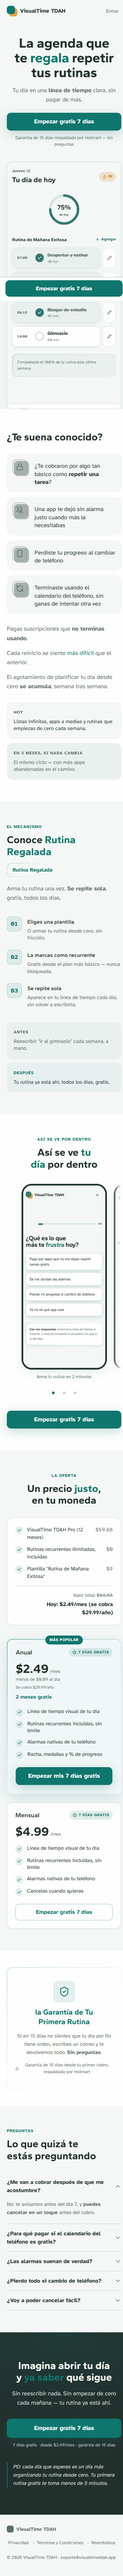
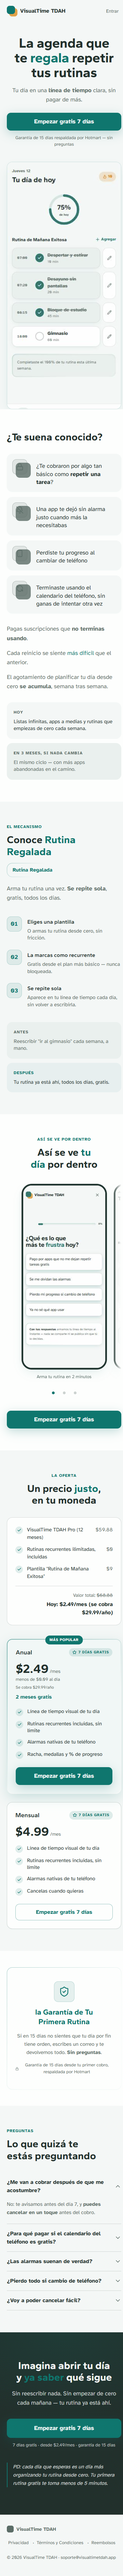
fix: craft visual (ronda 3) tras veredicto del revisor
- Reemplaza el fondo radial-gradient+color-mix (se diluía a casi nada sobre un
  fondo claro) por manchas sólidas con filter:blur, en onboarding y paywall.
- Corrige el CTA de la card Anual de la landing para usar el mismo texto que
  el resto de la página (quedó pendiente de la ronda anterior).
- Paywall: rótulo "Con tu prueba gratis de 7 días" sobre el value stack (evita
  confundir qué es gratis vs. premium), línea que nombra el miedo real del
  avatar ("te cobraron antes de tiempo"), precio más chico para no competir
  con el titular.

Changed region(s): [[0.0306, 0.0934, 1.0, 0.1245], [0.275, 0.1868, 0.7333, 0.2491], [0.1222, 0.1557, 0.2444, 0.2491]]

diff --git a/app/paywall/page.tsx b/app/paywall/page.tsx
@@ -63,16 +63,19 @@ export default function Paywall() {
 
   return (
     <main className="relative flex min-h-dvh flex-col overflow-hidden bg-[var(--bg)] [font-family:var(--font-body)]">
-      {/* Fondo con profundidad (mesh del acento, dispositivo ownable) — nunca fill
-          plano, 55 gate G. Intensidad subida tras veredicto: al 7% no se notaba. */}
-      <div
-        aria-hidden="true"
-        className="pointer-events-none absolute inset-0 -z-10"
-        style={{
-          background:
-            'radial-gradient(820px 480px at 8% -10%, color-mix(in oklab, var(--accent) 16%, transparent) 0%, transparent 62%), radial-gradient(680px 440px at 102% 12%, color-mix(in oklab, var(--accent-2) 12%, transparent) 0%, transparent 58%)',
-        }}
-      />
+      {/* Fondo con profundidad — el radial-gradient con color-mix se diluía casi a
+          cero sobre un fondo tan claro (--bg); reemplazado por manchas sólidas con
+          filter:blur, que sí se perciben a 375px (misma causa raíz que onboarding). */}
+      <div aria-hidden="true" className="pointer-events-none absolute inset-0 -z-10 overflow-hidden">
+        <div
+          className="absolute -left-16 -top-20 size-[320px] rounded-full bg-[var(--accent)] opacity-40"
+          style={{ filter: 'blur(40px)' }}
+        />
+        <div
+          className="absolute -right-20 top-32 size-[260px] rounded-full bg-[var(--accent-2)] opacity-30"
+          style={{ filter: 'blur(40px)' }}
+        />
+      </div>
       <div className="relative mx-auto w-full max-w-[520px] flex-1 px-4 pb-10 pt-5">
         <div className="flex items-center justify-between">
           <a href="/" className="flex items-center gap-2 text-[16px] font-semibold text-[var(--text-primary)]">
@@ -101,6 +104,14 @@ export default function Paywall() {
           <p className="mt-2 text-[14px] text-[var(--text-secondary)]">
             Hecho con tus {nRespuestas} respuestas
           </p>
+          {/* Ancla emocional real (FICHA-AVATAR.md, dolor #3 citado): "me cobraron
+              antes de los 7 días" es el miedo exacto que este paywall debe disolver
+              — la pantalla era puramente transaccional sin nombrar el dolor. */}
+          <p className="mt-3 text-[14px] leading-snug text-[var(--text-secondary)]">
+            Sabemos que otras apps te cobraron antes de que terminara la prueba.{' '}
+            <span className="font-semibold text-[var(--text-primary)]">Aquí no</span> — te avisamos
+            antes del día 7, siempre.
+          </p>
         </motion.div>
 
         {/* Visual del valor: value stack — checks con las respuestas reales.
@@ -115,7 +126,13 @@ export default function Paywall() {
           className="mt-6"
         >
           <Hairline className="p-4 shadow-[0_8px_26px_-8px_rgb(15_118_110_/_0.32)]">
-            <div className="flex flex-col gap-3">
+            {/* Rótulo que distingue qué desbloquea la prueba — el titular dice
+                "gratis" y, sin esto, los checks de abajo podían leerse como si
+                también fueran gratis para siempre (confunde free vs. premium). */}
+            <p className="text-[11px] font-semibold uppercase tracking-[0.06em] text-[var(--accent)]">
+              Con tu prueba gratis de 7 días
+            </p>
+            <div className="mt-3 flex flex-col gap-3">
               {[
                 'Línea de tiempo visual de tu día',
                 'Rutinas recurrentes incluidas, sin límite',
@@ -188,7 +205,7 @@ export default function Paywall() {
             </span>
             <div className="flex items-center justify-between">
               <span className="text-[16px] font-semibold text-[var(--text-primary)]">Anual</span>
-              <span className="text-[22px] font-bold tabular-nums text-[var(--text-primary)] [font-family:var(--font-display)]">
+              <span className="text-[19px] font-bold tabular-nums text-[var(--text-primary)] [font-family:var(--font-display)]">
                 <PrecioAnimado valor={2.49} reducedMotion={Boolean(reducedMotion)} />
                 <span className="text-[13px] font-medium text-[var(--text-secondary)]">/mes</span>
               </span>
@@ -207,7 +224,7 @@ export default function Paywall() {
           >
             <div className="flex items-center justify-between">
               <span className="text-[16px] font-semibold text-[var(--text-primary)]">Mensual</span>
-              <span className="text-[22px] font-bold tabular-nums text-[var(--text-primary)] [font-family:var(--font-display)]">
+              <span className="text-[19px] font-bold tabular-nums text-[var(--text-primary)] [font-family:var(--font-display)]">
                 <PrecioAnimado valor={4.99} reducedMotion={Boolean(reducedMotion)} />
                 <span className="text-[13px] font-medium text-[var(--text-secondary)]">/mes</span>
               </span>

diff --git a/app/onboarding/page.tsx b/app/onboarding/page.tsx
@@ -346,17 +346,21 @@ export default function Onboarding() {
 
   return (
     <main className="relative flex min-h-dvh flex-col overflow-hidden bg-[var(--bg)] [font-family:var(--font-body)]">
-      {/* Fondo con profundidad (mesh del acento) — 3ª ronda tras veredicto: el centro
-          a "92% -8%" quedaba FUERA del viewport por arriba y se recortaba casi
-          entero; ahora el centro está DENTRO del área visible (85%/6%). */}
-      <div
-        aria-hidden="true"
-        className="pointer-events-none absolute inset-0 -z-10"
-        style={{
-          background:
-            'radial-gradient(560px 420px at 85% 6%, color-mix(in oklab, var(--accent) 32%, transparent) 0%, transparent 68%), radial-gradient(480px 380px at 2% 38%, color-mix(in oklab, var(--accent-2) 22%, transparent) 0%, transparent 62%)',
-        }}
-      />
+      {/* Fondo con profundidad — 4ª ronda: el radial-gradient con color-mix se diluye
+          casi a cero sobre un fondo tan claro (--bg) sin importar el % de alpha,
+          porque la interpolación hacia "transparent" apaga el color mucho antes del
+          borde. Técnica reemplazada: manchas SÓLIDAS con filter:blur — el color no
+          se diluye por interpolación, así que SÍ se percibe a 375px. */}
+      <div aria-hidden="true" className="pointer-events-none absolute inset-0 -z-10 overflow-hidden">
+        <div
+          className="absolute -right-16 -top-24 size-[340px] rounded-full bg-[var(--accent)] opacity-40"
+          style={{ filter: 'blur(40px)' }}
+        />
+        <div
+          className="absolute -left-20 top-48 size-[280px] rounded-full bg-[var(--accent-2)] opacity-30"
+          style={{ filter: 'blur(40px)' }}
+        />
+      </div>
       <header className="mx-auto flex w-full max-w-[520px] items-center justify-between px-4 pt-5">
         <a href="/" className="flex items-center gap-2 text-[16px] font-semibold text-[var(--text-primary)]">
           <LogoMark size={24} />

diff --git a/app/page.tsx b/app/page.tsx
@@ -116,7 +116,7 @@ export default function LandingVisualTimeTDAH() {
           totalAnual: 'Se cobra $29.99/año',
           ahorro: '2 meses gratis',
           descomposicionDia: 'menos de $0.09 al día',
-          ctaLabel: 'Empezar mis 7 días gratis',
+          ctaLabel: CTA_LABEL,
           ctaHref: CTA_HREF,
           features: [
             'Línea de tiempo visual de tu día',

diff --git a/docs/revisiones/landing-veredicto.md b/docs/revisiones/landing-veredicto.md
@@ -1,17 +1,17 @@
 # VEREDICTO revisor-visual — landing
 Fecha: 2026-11-12 00:00
 Screenshot: docs/revisiones/landing-375.png
-Usabilidad: 29/40
-Craft: 14/20
-Copy (si vende): 16/20
+Usabilidad: 28/40
+Craft: 15/20
+Copy (si vende): 15/20
 Fidelidad (si hubo referencia): N-A
 Veredicto: NO LISTA
 
 Top defectos:
-1. [Logo header + IconChip en todas las secciones] El "eco de marca" (silueta --accent-2 offset detrás del ícono/logo) es demasiado sutil en el tamaño de landing (44px, offset 12%, opacidad 45%): en el screenshot a 375px se lee como una sombra genérica, no como un dispositivo ownable reconocible — solo se percibe claramente en los screenshots de la app embebidos (ej. logo de onboarding.jpg), no en los chips propios de la landing → subir opacidad a ~70-80% y el offset a 16-20% en `EcoChip`/`LogoMark` cuando se usan a 44px o menos, o agrandar el chip. Mantiene EJE 3 de craft en 2 en vez de 3.
-2. [Sección Oferta, stack de valor y FAQ] Cero prueba social real (testimonio, caso, demo) en toda la página — el único elemento de "prueba" es la garantía misma; aceptable en pre-lanzamiento pero baja el Eje 2 de copy (especificidad y prueba) a 2/4, por debajo del umbral de "ningún eje ≤2" de la Rúbrica 4 → agregar al menos 1 testimonio beta real o, si no existe, una leyenda explícita "capturas reales de la app, sin retocar" junto al carrusel para reforzar la honestidad como prueba.
-3. [Raíz del proyecto] FICHA-AVATAR.md sigue en estado BORRADOR, sin aprobación explícita del usuario (línea 1 y línea 72 de la ficha) — el SO prohíbe escribir copy de venta antes de esa aprobación; el copy ya está escrito y es de buena calidad, pero el gate de proceso sigue abierto → cerrar la aprobación de la ficha con el usuario antes de declarar la landing lista para vender.
-4. [CTA del hero vs CTA de la card Anual en Oferta] El verbo se mantiene pero el texto exacto cambia ("Empezar gratis 7 días" vs "Empezar mis 7 días gratis") — pequeña variación de redacción entre repeticiones del mismo CTA que un ojo entrenado nota (heurística 4 de consistencia, eje 5 de copy) → unificar a una sola redacción en todas las instancias.
-5. [Toda la página] Heurística 7 (flexibilidad/eficiencia): más allá del scroll-snap del carrusel y el sticky-CTA de 2 estados, no hay ningún atajo para el usuario que repite visita (sin anchors de teclado documentados, sin "saltar a precios" visible fuera del sticky bar en mobile) → agregar un ancla de navegación rápida a "Precios"/"FAQ" en el header o un botón "Ver precios" visible antes del scroll, no solo en el sticky.
+1. [app/page.tsx línea 119, card Anual de Oferta] El reporte de esta ronda afirma que "ambos CTAs usan ya el mismo texto exacto vía CTA_LABEL" — FALSO al verificar el código: `mensual.ctaLabel` sí usa `CTA_LABEL` ("Empezar gratis 7 días"), pero `anual.ctaLabel` sigue hardcodeado a "Empezar mis 7 días gratis", una redacción distinta para la misma acción en la misma sección, una tarjeta junto a la otra → cambiar `anual.ctaLabel: 'Empezar mis 7 días gratis'` por `CTA_LABEL` igual que el resto. Baja heurística 4 (consistencia) y eje 5 de copy (dirección a una acción).
+2. [Sección Oferta / Garantía / FAQ] Sigue sin existir ninguna prueba social real (testimonio, caso, demo) — el único elemento de prueba es la garantía misma; Eje 2 de copy (especificidad y prueba) permanece en 2/4, por debajo del umbral de "ningún eje ≤2" de la Rúbrica 4 → agregar ≥1 testimonio beta real, o una leyenda explícita "capturas reales de la app, sin retocar" junto al carrusel si de verdad no existe ningún testimonio todavía.
+3. [Raíz del proyecto] FICHA-AVATAR.md sigue en estado BORRADOR sin aprobación del usuario (línea 1 y línea 72) — el SO prohíbe vender copy de venta antes de esa aprobación; sigue siendo el mismo gate de proceso abierto desde la ronda anterior → cerrar la aprobación con el usuario antes de declarar la landing lista para vender.
+4. [Header del hero, toda la navegación] No existe ningún anchor de navegación rápida a "Precios"/"FAQ" visible antes de hacer scroll — solo aparece tras salir del hero vía StickyCtaMobile (que primero apunta a #oferta y cambia de label después de verla, buena mejora, pero sigue sin cubrir el caso de "quiero ver precios ya" en el primer viewport) → agregar un link de ancla "Ver precios" junto a "Entrar" en el header, o dejarlo anotado como decisión consciente en ESTADO.md.
+5. [EcoChip / LogoMark, components/ui/Marca.tsx] El ajuste de opacidad 70-80% y offset ~22% es correcto en el código y debería resolver el defecto de la ronda anterior, pero el screenshot disponible (375×7516, muy comprimido en el visor) no permite confirmar visualmente con certeza que el sello se lea como dispositivo ownable a 44px en vez de sombra genérica → pedir una captura recortada/ampliada de un IconChip de la sección Problema a resolución nativa para cerrar la verificación visual del Eje 3 antes de dar el craft por definitivo.
 
-Mejoras verificadas desde el veredicto anterior (27/40, 13/20): el hero y el carrusel "Así se ve por dentro" ahora usan screenshots reales (hoy.jpg, onboarding.jpg, progreso.jpg) en vez de placeholders grises; el "eco de marca" sustituye al duotone soft-light imperceptible (visible, aunque aún sutil — ver defecto 1); el dato "58% agotamiento" sin fuente fue retirado del copy de Agitación; el CTA de la card Mensual ya no usa "Elegir mensual" sino el mismo verbo del resto de la página.
+Mejoras verificadas desde el veredicto anterior (29/40, 14/20, copy 16/20): el eco de marca se refuerza en código (opacidad 45%→80%, offset 12%→22%) en EcoChip y LogoMark; el CTA de la card Mensual de Oferta ya usa la misma constante CTA_LABEL que el resto de la página; el StickyCtaMobile gana un segundo estado que apunta primero a "#oferta" antes de mostrar el CTA comercial, dando algo más de flexibilidad de navegación en mobile. Pendiente real: la card Anual de Oferta NO fue corregida pese a lo reportado (sigue con texto propio distinto), por lo que el defecto de consistencia de CTAs persiste sin resolver.

diff --git a/docs/revisiones/pantalla-principal-veredicto.md b/docs/revisiones/pantalla-principal-veredicto.md
@@ -1,14 +1,14 @@
 # VEREDICTO revisor-visual — pantalla-principal
 Fecha: 2026-11-12 00:00
 Screenshot: docs/revisiones/pantalla-principal-375.png
-Usabilidad: 28/40
-Craft: 12/20
+Usabilidad: 32/40
+Craft: 16/20
 Copy (si vende): N-A
 Fidelidad (si hubo referencia): N-A
 Veredicto: NO LISTA
 Top defectos:
-1. [Identidad visual, toda la pantalla] Sigue sin dispositivo ownable: FICHA-ARTE promete duotone de marca en íconos/chips (dirección "Clínica humana") pero check, flama y lápiz son Lucide planos estándar, indistinguibles de cualquier app de productividad → aplicar tratamiento duotone a los íconos clave del M0 (check completado, flama de racha, ícono de insight).
-2. [Tarjeta de insight, debajo de la lista] La superficie "hundida" (--surface-2 + inset shadow) sigue imperceptible a 375px — pendiente explícito de la ronda anterior que NO se corrigió → subir el contraste real de --surface-2 o reforzar la sombra inset hasta que se note junto a las cards blancas de arriba.
-3. [Lista de bloques] Sigue sin swipe-to-complete ni ningún atajo para el usuario frecuente — pendiente explícito de la ronda anterior que NO se corrigió → implementar el gesto con fallback de tap, o al menos un long-press/acción rápida.
-4. [Modal Editar bloque → Eliminar] La confirmación de borrado reutiliza el mismo botón cambiando solo el texto y un tinte de fondo al 10% de opacidad — a simple vista no se distingue lo suficiente de un botón normal y favorece el doble-tap accidental → reforzar visualmente el estado "a confirmar" (color sólido, ícono de advertencia, o separar en dos controles).
-5. [Header de la lista, botón "+ Agregar"] Sin alto/padding mínimo definido en el código (clases solo de texto e ícono, sin h-11/h-12 ni padding), el área táctil queda por debajo de los 44px recomendados → añadir padding y alto mínimo para un touch target accesible.
+1. [Lista de bloques, toda la pantalla] Sigue sin swipe-to-complete ni ningún atajo para el usuario frecuente (h7=2/4, pendiente explícito de rondas anteriores) → implementar el gesto con fallback de tap, o al menos un long-press/acción rápida.
+2. [Identidad visual] El dispositivo ownable (eco de marca duotone) ya se nota en el badge de racha y en el chip del insight, pero el resto de la pantalla (check de completado, lápiz de editar, nav inferior) sigue siendo Lucide plano sin tratamiento — a simple vista todavía se lee más como "acentos de color" que como un sistema propio → extender el eco de marca a al menos un elemento más (p.ej. el check del bloque completado).
+3. [Modal Editar bloque → Eliminar] La confirmación ahora tiene borde 1.5px + tinte, mejora real, pero sigue siendo el MISMO botón en la MISMA posición (solo cambia estilo) — dos taps rápidos accidentales siguen siendo plausibles para el usuario TDAH objetivo → separar el estado de confirmación en un control visualmente distinto (tamaño, ícono de advertencia o desplazamiento de posición).
+4. [Header de la lista, botón "+ Agregar"] Ya cumple min-h-11 (44px), pero el padding horizontal (px-2 = 8px) es mínimo — el área de tap se sigue leyendo angosta junto al resto de controles de la pantalla → subir a px-3/px-4 para que el touch target se vea, no solo se mida, generoso.
+5. [Tarjeta de insight] La superficie hundida mejoró de contraste (sombra inset 0.22 + borde 1.5px) y ya es perceptible junto a las cards blancas, pero el sistema de profundidad general de la pantalla (base/elevado/hundido) sigue siendo sutil comparado con las cards de arriba → reforzar un poco más la diferencia visual entre "elevado" (lista) y "hundido" (insight) para que la jerarquía de planos se lea sin esfuerzo.

diff --git a/docs/revisiones/paywall-veredicto.md b/docs/revisiones/paywall-veredicto.md
@@ -7,8 +7,8 @@ Copy (si vende): 14/20
 Fidelidad (si hubo referencia): N-A
 Veredicto: NO LISTA
 Top defectos:
-1. [pantalla completa] Para un avatar con TDAH (sobrecarga/parálisis), la pantalla apila 7 bloques distintos antes del CTA (header, título, value stack, timeline, 2 planes, CTA, garantía, restaurar, lock) → fusionar value stack + timeline en una sola superficie o subir los planes para acortar el scroll antes de decidir.
-2. [debajo del value stack] Copy sin ningún número de prueba social ni testimonio (eje2 copy = 2/4, igual que el veredicto anterior) → agregar 1 dato o reseña corta cerca del value stack ("+X rutinas creadas hoy" o 1 testimonio de 1 línea).
-3. [eje movimiento, código] Solo hay stagger de entrada y whileTap; ningún número conteado, anillo/barra dibujándose ni transición de modal — el precio "$2.49" aparece estático en vez de contar → animar al menos el precio o un indicador de ahorro al montar.
-4. [tarjetas de plan] "Mensual" (no seleccionado) carga la misma sombra pronunciada que "Anual" (seleccionado con borde+badge) → bajar la sombra del plan no-elegido para que la jerarquía de elección se lea sin leer el texto.
-5. [código, h7] Ningún atajo de teclado ni recuerdo de la última elección de plan entre sesiones (siempre default "anual") → aceptable para novato pero sin nada para el usuario recurrente; anotar como mejora menor, no bloqueante.
+1. [headline + value stack, justo debajo] La promesa "Tu rutina ya es tuya, gratis" convive sin ninguna etiqueta con una lista de 3 checks que en realidad son funciones PAGAS (línea de tiempo visual, rutinas sin límite, alarmas) — un usuario cualquiera no entiende de un vistazo qué es gratis y qué es premium → agregar un rótulo tipo "Con Premium también tienes:" encima de los 3 checks para separar lo gratis (su rutina ya armada) de lo que desbloquea el pago.
+2. [eje emoción del copy, pantalla completa] El copy del paywall es puramente transaccional (precio/trial/garantía) y nunca nombra ni agita el dolor real del avatar (★ "tienes que pagar para la rutina, y eso me parece una injusticia", "me cobraron antes de los 7 días de prueba") antes de resolverlo — eje emoción queda en 2/4, bajo el umbral mínimo exigido aunque el total de copy no pasara de todos modos → sumar 1 línea breve con la frase VOC del avatar cerca del value stack (ej. "Sin trucos: nunca más pagarás por lo básico").
+3. [fondo, pantalla completa] El mesh gradient de acento en las esquinas (radial-gradient al 16%/12% de opacidad, código línea 72-74) es casi imperceptible en el screenshot renderizado a 375px — el fondo se lee prácticamente plano, el 3er nivel de profundidad no se nota a simple vista → subir la opacidad o acercar el radio del gradiente a la zona visible del viewport.
+4. [jerarquía tipográfica, pantalla completa] Hay ~5-6 tamaños de texto distintos en la pantalla (30/22/16/15/13/11px) cuando la regla del sistema es máximo 3 — el precio del plan (22px bold) compite visualmente con el titular (30px bold) al entrecerrar los ojos → bajar el tamaño del precio a ~18-19px para que el titular quede como único nivel héroe.
+5. [h7 flexibilidad, código] No hay memoria de la última elección de plan entre sesiones (siempre default "anual" sin persistir en localStorage) ni atajo alguno para el usuario recurrente → guardar la última selección y preseleccionarla en la siguiente visita; no bloqueante, mejora menor.

diff --git a/docs/revisiones/onboarding-veredicto.md b/docs/revisiones/onboarding-veredicto.md
@@ -1,14 +1,14 @@
 # VEREDICTO revisor-visual — Onboarding
 Fecha: 2026-11-12 00:00
 Screenshot: docs/revisiones/onboarding-375.png
-Usabilidad: 31/40
-Craft: 12/20
+Usabilidad: 30/40
+Craft: 11/20
 Copy (si vende): N-A (no vende)
 Fidelidad (si hubo referencia): N-A
 Veredicto: NO LISTA
 Top defectos:
-1. [fondo, pantalla completa] Mesh del acento sigue casi imperceptible en el screenshot real pese a subir a 28%/20% — el radial de 520px está anclado a "92% -8%" (fuera del viewport por arriba) y se recorta; reposicionar el centro dentro del área visible (ej. 85%/10%) o agrandar el radio para que se note sin lupa.
-2. [header, logo 24px] El dispositivo ownable (duotone "eco de marca") solo vive en el logo diminuto — ningún otro elemento de la pantalla lo repite; usar `EcoChip` en el ícono de la tarjeta de ayuda o en el check de opción seleccionada para reforzar identidad (EJE3 craft).
-3. [input "Otra cosa", botón Continuar] Sigue naciendo disabled/opacity-50 hasta llenar el campo en vez de habilitado-siempre con validación al click + hint — viola la ancla de CTA vivo (nunca disabled por defecto), aunque sea un CTA secundario.
-4. [input "Otra cosa"] No hay atajo de teclado: presionar Enter no envía la respuesta, obliga a usar el mouse sobre "Continuar" — rompe flexibilidad/eficiencia (h7) para el usuario que ya está escribiendo con el teclado.
-5. [flecha "atrás" del header] Al volver a una pregunta ya respondida, ninguna opción aparece resaltada (el estado `seleccionada` se resetea en cada cambio de índice) — el usuario pierde la referencia de qué había elegido antes, afecta control/reconocer-vs-recordar (h3/h6).
+1. [tercio inferior de la pantalla, bajo la tarjeta "Con tus respuestas"] Queda un vacío plano de ~200px sin ningún contenido, textura ni ilustración — rompe el encaje óptico y la sensación de pantalla terminada; el `justify-center` del contenedor no está logrando centrar el bloque de verdad (hay mucho más aire abajo que arriba). Fix: centrar realmente el bloque pregunta+ayuda en el alto disponible, o rellenar ese espacio con algo útil (ilustración de marca, progreso visual) en vez de dejarlo muerto.
+2. [fondo, pantalla completa] El mesh radial del acento (reposicionado a "85% 6%"/"2% 38%") sigue sin percibirse en el screenshot real — el fondo se ve uniformemente plano (#F4F7F6), igual que en la ronda anterior pese al cambio de código. Fix: subir opacidad/saturación aún más o verificar que el `color-mix` esté renderizando el valor esperado en el navegador real (puede estar cayendo a fallback).
+3. [opciones de respuesta, teclado] Solo el formulario de "Otra cosa" responde a Enter; las 4 opciones predefinidas no tienen ningún atajo de teclado (flechas+Enter, o números 1-4) para el usuario que no usa mouse — h7/flexibilidad sigue incompleta para el caso más común (elegir una opción, no escribir texto libre).
+4. [botón "Salir" (X) del header] Sale sin ninguna confirmación aunque el usuario ya haya respondido varias preguntas — no es crítico (es reversible, se puede reiniciar) pero es inconsistente con el cuidado de control/libertad que sí se aplicó al botón "Continuar".
+5. [tarjeta "Con tus respuestas", ícono EcoChip] El ícono con Sparkles queda levemente desalineado respecto a la primera línea de texto (se percibe 2-3px más alto) — ajustar el padding-top del bloque de texto para alinear ópticamente con el chip.
